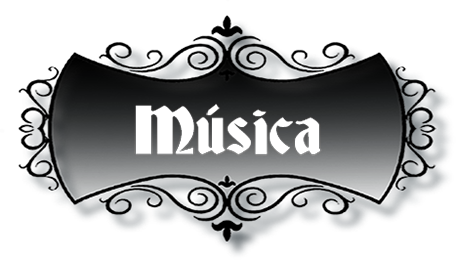
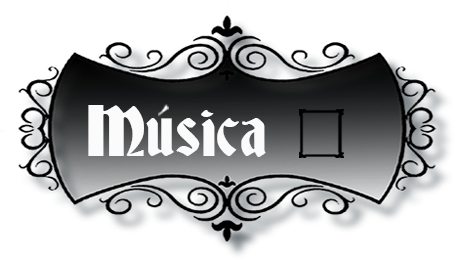
Eduardo -- Ajustes menu de opciones

Changed region(s): [[0.1842, 0.4, 0.7675, 0.6154]]

diff --git a/core/src/itesm/mx/whacamole/PantallaOpciones.java b/core/src/itesm/mx/whacamole/PantallaOpciones.java
@@ -42,8 +42,8 @@ public class PantallaOpciones implements Screen {
     private Sprite spriteBtnMusica;
 
     //Boton Opciones
-    private Texture texturaBtnSonidos;
-    private Sprite spriteBtnSonidos;
+    private Texture texturaBtnMP;
+    private Sprite spriteBtnMP;
 
     //Titulo
     private Texture texturaTitulo;
@@ -54,7 +54,7 @@ public class PantallaOpciones implements Screen {
     private Sprite spriteFondoJuego;
 
 
-
+    private EstadoOpciones estado;
 
     //Dibujar
     private SpriteBatch batch;
@@ -95,21 +95,22 @@ public class PantallaOpciones implements Screen {
         //Titulo
         texturaTitulo = new Texture(Gdx.files.internal("T_Opciones.png"));
         spriteTitulo = new Sprite(texturaTitulo);
-        spriteTitulo.setPosition(Principal.ANCHO_MUNDO / 2 - spriteBtnInicio.getWidth()/2-35, Principal.ALTO_MUNDO / 2 - spriteBtnInicio.getRegionHeight() / 2 +240);
+        spriteTitulo.setPosition(Principal.ANCHO_MUNDO / 2 - spriteBtnInicio.getWidth() / 2 - 35, Principal.ALTO_MUNDO / 2 - spriteBtnInicio.getRegionHeight() / 2 + 240);
 
 
-        spriteBtnInicio.setPosition(Principal.ANCHO_MUNDO / 2 - spriteBtnInicio.getWidth()/2, Principal.ALTO_MUNDO / 2 - spriteBtnInicio.getRegionHeight() / 2 - 140);
+        spriteBtnInicio.setPosition(Principal.ANCHO_MUNDO / 2 - spriteBtnInicio.getWidth() / 2, Principal.ALTO_MUNDO / 2 - spriteBtnInicio.getRegionHeight() / 2 - 140);
 
         //Boton Instrucciones
         texturaBtnMusica = new Texture(Gdx.files.internal("Btn_Musica.png"));
         spriteBtnMusica = new Sprite(texturaBtnMusica);
-        spriteBtnMusica.setPosition(Principal.ANCHO_MUNDO / 2 - spriteBtnMusica.getWidth()-200 / 2, Principal.ALTO_MUNDO/2-100);
+        spriteBtnMusica.setPosition(Principal.ANCHO_MUNDO / 2 - spriteBtnMusica.getWidth() / 2-200, Principal.ALTO_MUNDO / 2 - 100);
 
         //Boton Opciones
-        texturaBtnSonidos = new Texture(Gdx.files.internal("Btn_Sonidos.png"));
-        spriteBtnSonidos = new Sprite(texturaBtnSonidos);
-        spriteBtnSonidos.setPosition(Principal.ANCHO_MUNDO / 2 + 100, Principal.ALTO_MUNDO / 2 - 100);
+        texturaBtnMP = new Texture(Gdx.files.internal("Btn_MusicaPaloma.png"));
+        spriteBtnMP = new Sprite(texturaBtnMP);
+        spriteBtnMP.setPosition(Principal.ANCHO_MUNDO / 2 - spriteBtnMusica.getRegionWidth() / 2+200, Principal.ALTO_MUNDO / 2 - 100);
 
+        estado = EstadoOpciones.MUSICON;
         //TextoOpciones
 
 
@@ -131,8 +132,15 @@ public class PantallaOpciones implements Screen {
         spriteFondoJuego.draw(batch);
         spriteFondo.draw(batch);
         spriteBtnInicio.draw(batch);
-        spriteBtnMusica.draw(batch);
-        spriteBtnSonidos.draw(batch);
+
+        if(estado == EstadoOpciones.MUSICON){
+            spriteBtnMP.draw(batch);
+        } else {
+            if(estado == EstadoOpciones.MUSICOFF){
+                spriteBtnMusica.draw(batch);
+            }
+        }
+
         spriteTitulo.draw(batch);
 
         batch.end();
@@ -169,7 +177,7 @@ public class PantallaOpciones implements Screen {
         texturaFondo.dispose();
         texturaBtnInicio.dispose();
         texturaBtnMusica.dispose();
-        texturaBtnSonidos.dispose();
+        texturaBtnMP.dispose();
         texturaTitulo.dispose();
         texturaFondoJuego.dispose();
 
@@ -187,12 +195,30 @@ public class PantallaOpciones implements Screen {
                     touchX<spriteBtnInicio.getX()+spriteBtnInicio.getWidth()
                     && touchY>=spriteBtnInicio.getY()
                     && touchY<=spriteBtnInicio.getY()+spriteBtnInicio.getHeight()){
-
                 principal.setScreen(new PantallaMenu(principal));
+            }
+            if(touchX>=spriteBtnMusica.getX()&&
+                    touchX<spriteBtnMusica.getX()+spriteBtnMusica.getWidth()
+                    && touchY>=spriteBtnMusica.getY()
+                    && touchY<=spriteBtnMusica.getY()+spriteBtnMusica.getHeight()
+                    && estado == EstadoOpciones.MUSICOFF){
+                estado = EstadoOpciones.MUSICON;
+            }
+            if(touchX>=spriteBtnMP.getX()&&
+                    touchX<spriteBtnMP.getX()+spriteBtnMP.getWidth()
+                    && touchY>=spriteBtnMP.getY()
+                    && touchY<=spriteBtnMP.getY()+spriteBtnMP.getHeight()
+                    && estado == EstadoOpciones.MUSICON){
+                estado = EstadoOpciones.MUSICOFF;
             }
 
         }
 
+    }
+
+    public enum EstadoOpciones {
+        MUSICON,
+        MUSICOFF
     }
 
 }
